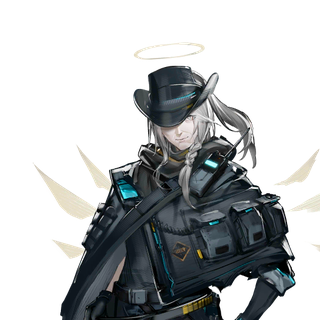
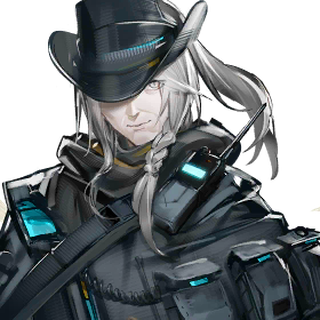
fix: EP 09 캐릭터 아바타 두상 클로즈업 재크롭, 전신 일러스트(illustUrl) 10종 추가 및 괄호 설명·영문 표기 정제

diff --git a/src/data/stories/ep09.ts b/src/data/stories/ep09.ts
@@ -17,17 +17,17 @@ export const episode09: StoryArchive = {
   },
   meta: {
     timeline: '테라력 1097년 10월',
-    location: '빅토리아 힐록 카운티(Hillock) 시가지 ~ 로도스 아일랜드 본함 격리 구역',
+    location: '빅토리아 힐록 카운티 시가지 ~ 로도스 아일랜드 본함 격리 구역',
     factions: [
       '로도스 아일랜드',
-      '빅토리아 제국 (제9방위군 / 템페스트 특공대)',
-      '더블린 (Dublinn)',
+      '빅토리아 제국',
+      '더블린',
       '네오 리유니온'
     ],
     mainCharacters: [
       '혼',
       '백파이프',
-      '제니 (사일라흐)',
+      '사일라흐',
       '아웃캐스트',
       '만드라고라',
       '아르모니',
@@ -43,7 +43,7 @@ export const episode09: StoryArchive = {
   content: {
     prtsGreeting: '[PRTS ARCHIVE] 빅토리아 힐록 카운티 무장 봉기, 더블린 부상 및 아웃캐스트 전술 로그.',
     logline: '타라족의 피로 물든 힐록의 불길, 템페스트 특공대의 고립과 아웃캐스트의 숭고한 산화, 그리고 로도스 본함에서 벌어진 탈룰라 탈환 작전.',
-    background: '체르노보그 사태가 종결된 직후, 테라의 시선은 서방의 대제국 빅토리아로 향한다. 빅토리아 남부의 곡창 지대인 중형 이동도시 힐록 카운티(Hillock County)는 겉으로는 평온해 보였으나, 오랜 세월 제국의 탄압을 받아온 피지배 민족 "타라족(Tara)"과 지배층 빅토리아인 사이의 갈등이 한계점에 도달해 있었다. 현지 주둔군인 제9방위군(해밀턴 대령)은 타라족 주민들을 잠재적 반란군으로 규정해 혹독하게 억압했고, 이에 맞서 타라족의 독립을 외치는 무장 조직 "더블린(Dublinn)"이 은밀히 세력을 키우고 있었다. 빅토리아 정규군 템페스트 특공대 소속의 혼과 백파이프는 군부 내부의 밀수 조사를 위해 힐록에 잠입하지만 이미 도시는 거대한 함정에 빠져 있었다. 한편 로도스 아일랜드의 현지 연락원 제니(사일라흐)와 정예 오퍼레이터 아웃캐스트는 평화로운 일상을 지키기 위해 분투하지만, 도시 전체를 집어삼키는 전쟁의 소용돌이 속에서 아웃캐스트는 주민들을 위해 율법을 깨는 최후의 선택을 마주하게 된다.',
+    background: '체르노보그 사태가 종결된 직후, 테라의 시선은 서방의 대제국 빅토리아로 향한다. 빅토리아 남부의 곡창 지대인 중형 이동도시 힐록 카운티는 겉으로는 평온해 보였으나, 오랜 세월 제국의 탄압을 받아온 피지배 민족 타라족과 지배층 빅토리아인 사이의 갈등이 한계점에 도달해 있었다. 현지 주둔군인 제9방위군은 타라족 주민들을 잠재적 반란군으로 규정해 혹독하게 억압했고, 이에 맞서 타라족의 독립을 외치는 무장 조직 더블린이 은밀히 세력을 키우고 있었다. 빅토리아 정규군 템페스트 특공대 소속의 혼과 백파이프는 군부 내부의 밀수 조사를 위해 힐록에 잠입하지만 이미 도시는 거대한 함정에 빠져 있었다. 한편 로도스 아일랜드의 현지 연락원 제니와 정예 오퍼레이터 아웃캐스트는 평화로운 일상을 지키기 위해 분투하지만, 도시 전체를 집어삼키는 전쟁의 소용돌이 속에서 아웃캐스트는 주민들을 위해 율법을 깨는 최후의 선택을 마주하게 된다.',
     acts: [
       {
         step: 1,
@@ -53,13 +53,13 @@ export const episode09: StoryArchive = {
         location: '빅토리아 힐록 카운티 물류 창고 및 시가지 거리',
         cgUrl: '/images/cgs/21_i1.png',
         cgCaption: '로도스 아일랜드 힐록 사무소에서 제니에게 카드 마술을 보여주며 온기를 나누는 아웃캐스트',
-        narrativeText: `잿빛 구름이 낮게 깔린 빅토리아의 중형 이동도시 힐록 카운티. 겉보기에는 농업과 경공업으로 번영하는 평온한 고장이었으나, 도시의 골목마다 타라족 주민들의 응어리진 한숨과 빅토리아 군경의 차가운 총구가 교차하고 있었다. 제국 정규군 최정예인 템페스트 특공대(제2기동소대) 대장 혼(리타 스카만드로스)과 그녀의 오랜 전우이자 부하인 와이번 종족의 백파이프(피오나 영)는 카운티 외곽의 한 대형 물류 창고로 은밀히 진입한다. 빅토리아 고위층과 연계된 오리지늄 군수물자 밀수 혐의를 포착했다는 첩보 때문이었다. 그러나 엄중한 경계를 뚫고 진열대 사이로 돌입한 혼과 백파이프가 마주한 것은 무기가 아니라 산더미처럼 쌓인 마카 야채와 굶주림에 떠는 초라한 청년뿐이었다. 누군가 의도적으로 특공대의 시야를 돌리고 헛걸음을 치게 만들었다는 불길한 예감이 스친다.
+        narrativeText: `잿빛 구름이 낮게 깔린 빅토리아의 중형 이동도시 힐록 카운티. 겉보기에는 농업과 경공업으로 번영하는 평온한 고장이었으나, 도시의 골목마다 타라족 주민들의 응어리진 한숨과 빅토리아 군경의 차가운 총구가 교차하고 있었다. 제국 정규군 최정예인 템페스트 특공대 대장 혼과 그녀의 오랜 전우이자 부하인 와이번 종족의 백파이프는 카운티 외곽의 한 대형 물류 창고로 은밀히 진입한다. 빅토리아 고위층과 연계된 오리지늄 군수물자 밀수 혐의를 포착했다는 첩보 때문이었다. 그러나 엄중한 경계를 뚫고 진열대 사이로 돌입한 혼과 백파이프가 마주한 것은 무기가 아니라 산더미처럼 쌓인 마카 야채와 굶주림에 떠는 초라한 청년뿐이었다. 누군가 의도적으로 특공대의 시야를 돌리고 헛걸음을 치게 만들었다는 불길한 예감이 스친다.
 
-같은 시각, 힐록 카운티 중심부의 로도스 아일랜드 주재 사무소에서는 소박하지만 따스한 아침 풍경이 펼쳐지고 있었다. 현지 의전 연락원이자 빅토리아 방위군 의전관인 젊은 여성 제니(훗날의 사일라흐, 제인 윌로우)는 갓 구운 바노피파이와 쇼트브레드를 챙겨 로도스 사무소를 찾는다. 그곳에는 로도스 최고참 정예 오퍼레이터 중 한 명인 산크타 출신의 아웃캐스트가 머물고 있었다. 아웃캐스트는 힐록 카운티의 겉으로 드러난 평온함 이면에 위험천만한 암류가 도사리고 있음을 일찌감치 간파하고 있었다. 그녀는 특유의 여유로운 미소와 함께 동전과 카드를 이용한 마술을 선보이며 광석병으로 고통받는 아이들과 제니의 굳은 얼굴을 풀어준다. "눈에 보이지 않는 패를 읽는 법을 배워야 해, 제니. 대지는 언제나 우리가 보지 못하는 곳에서 소용돌이를 일으키니까." 아웃캐스트의 온화한 격려는 전란 직전 힐록에서 나눈 가장 아름답고 평화로운 한 조각의 기억이었다.
+같은 시각, 힐록 카운티 중심부의 로도스 아일랜드 주재 사무소에서는 소박하지만 따스한 아침 풍경이 펼쳐지고 있었다. 현지 의전 연락원이자 훗날 사일라흐라는 이름으로 로도스에 서게 될 젊은 여성 제니는 갓 구운 바노피파이와 쇼트브레드를 챙겨 로도스 사무소를 찾는다. 그곳에는 로도스 최고참 정예 오퍼레이터 중 한 명인 산크타 출신의 아웃캐스트가 머물고 있었다. 아웃캐스트는 힐록 카운티의 겉으로 드러난 평온함 이면에 위험천만한 암류가 도사리고 있음을 일찌감치 간파하고 있었다. 그녀는 특유의 여유로운 미소와 함께 동전과 카드를 이용한 마술을 선보이며 광석병으로 고통받는 아이들과 제니의 굳은 얼굴을 풀어준다. 대지는 언제나 우리가 보지 못하는 곳에서 소용돌이를 일으킨다는 아웃캐스트의 온화한 격려는, 전란 직전 힐록에서 나눈 가장 아름답고 평화로운 한 조각의 기억이었다.
 
-그러나 평화는 오래가지 못했다. 제9방위군의 켈리 대위와 사령관 해밀턴 대령은 타라족 주민들을 겨냥한 무차별 가택 수색과 체포를 강행했고, 억압받던 주민들의 분노는 마침내 폭발 임계치를 넘어선다. 도심 곳곳의 순찰대가 기습을 당해 쓰러지고, 통신탑과 경비 초소가 의문의 공격으로 파괴되기 시작한다. 타라족의 전설 속 군대인 "귀혼대"의 망령이 돌아왔다는 소문이 거리를 휩쓸고, 시가지의 네 모퉁이에서 짙은 연기와 함께 정체불명의 화염이 솟구친다. 단순한 민간 폭동이 아니라 군사적 훈련을 철저히 받은 조직적인 반란군, 즉 "더블린(Dublinn)"의 선제 기습 공격이 개시된 것이었다.
+그러나 평화는 오래가지 못했다. 제9방위군의 켈리 대위와 사령관 해밀턴 대령은 타라족 주민들을 겨냥한 무차별 가택 수색과 체포를 강행했고, 억압받던 주민들의 분노는 마침내 폭발 임계치를 넘어선다. 도심 곳곳의 순찰대가 기습을 당해 쓰러지고, 통신탑과 경비 초소가 의문의 공격으로 파괴되기 시작한다. 타라족의 전설 속 군대인 귀혼대의 망령이 돌아왔다는 소문이 거리를 휩쓸고, 시가지의 네 모퉁이에서 짙은 연기와 함께 정체불명의 화염이 솟구친다. 단순한 민간 폭동이 아니라 군사적 훈련을 철저히 받은 조직적인 반란군, 즉 더블린의 선제 기습 공격이 개시된 것이었다.
 
-혼은 사태가 걷잡을 수 없이 파국으로 치닫고 있음을 직감하고 사령부와의 교신을 시도하지만, 이미 카운티의 장거리 통신망은 완전히 차단된 뒤였다. 제9방위군은 시민을 보호하기는커녕 도심의 방어벽을 걸어 잠근 채 도시 전체를 버리는 기동을 준비하고 있었다. 무고한 민간인들이 화염에 휩싸인 거리로 쏟아져 나오고, 백파이프는 군인의 본분을 다하기 위해 불타는 잔해 속으로 뛰어든다. 힐록의 하늘 위로 타라족의 자유를 부르짖는 음산한 피리 소리가 울려 퍼지며, 메인 테마 2부 《석양의 런디니움》의 서막을 알리는 비극의 포문이 열린다.`,
+혼은 사태가 걷잡을 수 없이 파국으로 치닫고 있음을 직감하고 사령부와의 교신을 시도하지만, 이미 카운티의 장거리 통신망은 완전히 차단된 뒤였다. 제9방위군은 시민을 보호하기는커녕 도심의 방어벽을 걸어 잠근 채 도시 전체를 버리는 기동을 준비하고 있었다. 무고한 민간인들이 화염에 휩싸인 거리로 쏟아져 나오고, 백파이프는 군인의 본분을 다하기 위해 불타는 잔해 속으로 뛰어든다. 힐록의 하늘 위로 타라족의 자유를 부르짖는 음산한 피리 소리가 울려 퍼지며, 메인 테마 2부 석양의 런디니움의 서막을 알리는 비극의 포문이 열린다.`,
         summary: '혼과 백파이프가 밀수 첩보를 조사하는 사이, 억압받던 타라족 저항군 더블린이 힐록 카운티 전역에서 동시다발적 기습을 개시하며 도시가 화염에 휩싸인다.',
         quotes: [
           {
@@ -75,7 +75,7 @@ export const episode09: StoryArchive = {
             context: '채소 창고 수색 작전 직후 힐록의 이상 징후를 간파하며'
           },
           {
-            speaker: '제니 (사일라흐)',
+            speaker: '사일라흐',
             speakerId: 'saileach',
             text: '올리버 아저씨, 따뜻한 차와 쇼트브레드 좀 드세요. 제 동료들은 광석병 환자와 타라족 주민들을 오해하고 있지만, 정성을 다해 대하면 언젠가는 마음의 벽도 무너질 거예요.',
             context: '로도스 사무소에서 감염자 아이들과 오퍼레이터들에게 음식을 건네며'
@@ -101,9 +101,9 @@ export const episode09: StoryArchive = {
 
 거리의 잔해 속에서 작전을 수행하던 혼과 백파이프의 발치로 낡은 장난감 공 하나가 굴러온다. 피투성이가 된 거리 한복판에 덩그러니 놓인 공을 주워 들며, 두 사람은 이 참극이 단순한 우발적 폭동이 아니라 빅토리아의 지배 체제 자체를 무너뜨리려는 조직적인 정복 작전임을 깨닫는다. 평화롭게 뛰놀던 아이들의 온기는 사라지고, 공기 중에는 오리지늄 분진과 살카즈 주술의 매캐한 유황 냄새가 짙게 깔려 있었다. 백파이프는 경악을 금치 못하며 주먹을 쥐었고, 혼은 부하들을 수습하며 고립된 시민들을 지키기 위해 검을 빼든다.
 
-더블린의 심장부에서는 또 다른 거대한 그림자가 움직이고 있었다. 우아하고 냉혹한 책사 아르모니의 보좌를 받으며 모습을 드러낸 인물은, 더블린의 최고 지도자이자 '리더'라 불리는 드라코 종족의 여성 에블라나였다. 그녀의 손끝에서는 죽은 자의 육신과 영혼을 태워 망령의 전사로 되살려내는 생명과 죽음의 불꽃이 타오르고 있었다. 에블라나는 빅토리아가 빼앗아 간 고대 타라 왕국의 정당한 권리를 되찾겠다고 선언하며, 힐록의 참상을 런디니움 귀족들의 오만함이 불러온 필연적 업보라고 단죄한다. 힐록의 하늘은 그녀가 소환한 푸른빛과 붉은빛의 원초적 화염으로 물들어갔다.
+더블린의 심장부에서는 또 다른 거대한 그림자가 움직이고 있었다. 우아하고 냉혹한 책사 아르모니의 보좌를 받으며 모습을 드러낸 인물은, 더블린의 최고 지도자이자 리더라 불리는 드라코 종족의 여성 에블라나였다. 그녀의 손끝에서는 죽은 자의 육신과 영혼을 태워 망령의 전사로 되살려내는 생명과 죽음의 불꽃이 타오르고 있었다. 에블라나는 빅토리아가 빼앗아 간 고대 타라 왕국의 정당한 권리를 되찾겠다고 선언하며, 힐록의 참상을 런디니움 귀족들의 오만함이 불러온 필연적 업보라고 단죄한다. 힐록의 하늘은 그녀가 소환한 푸른빛과 붉은빛의 원초적 화염으로 물들어갔다.
 
-한편 제9방위군 사령부에 고립된 해밀턴 대령은 공포와 편집증에 사로잡혀 극단적인 결정을 내린다. 그는 카운티에 남은 모든 주민을 반란군 동조자로 간주하고, 군사 조약으로 엄격히 금지된 오리지늄 대량살상무기인 기화성 소이탄(더티 밤)을 도시 전역에 살포하라는 명령을 하달한다. "폭도들에게 자비는 없다. 이 도시 전체가 잿더미가 되더라도 빅토리아의 불명예를 남길 수는 없다!" 이성이 마비된 해밀턴의 광기 어린 폭주는, 더블린의 침공보다 더욱 끔찍한 파멸의 재앙을 힐록의 무고한 시민들에게 예고하고 있었다.`,
+한편 제9방위군 사령부에 고립된 해밀턴 대령은 공포와 편집증에 사로잡혀 극단적인 결정을 내린다. 그는 카운티에 남은 모든 주민을 반란군 동조자로 간주하고, 군사 조약으로 엄격히 금지된 오리지늄 대량살상무기인 기화성 소이탄을 도시 전역에 살포하라는 명령을 하달한다. 반역자들에게 자비는 없으며, 이 도시 전체가 잿더미가 되더라도 빅토리아의 불명예를 남길 수는 없다는 해밀턴의 광기 어린 폭주는, 더블린의 침공보다 더욱 끔찍한 파멸의 재앙을 힐록의 무고한 시민들에게 예고하고 있었다.`,
         summary: '더블린의 만드라고라와 에블라나가 힐록을 유린하는 가운데, 공황에 빠진 해밀턴 대령은 금지된 오리지늄 화학탄 살포를 명령하며 도시를 생지옥으로 몰아넣는다.',
         quotes: [
           {
@@ -143,9 +143,9 @@ export const episode09: StoryArchive = {
         cgCaption: '라테라노의 금기를 깨고 여섯 번째 탄환을 발사하며 눈부신 빛 속에서 장렬히 산화하는 아웃캐스트',
         narrativeText: `해밀턴 대령의 살포 명령이 떨어지자, 거대한 폭음과 함께 힐록 카운티의 하늘에서 짙은 보랏빛 오리지늄 분진과 독가스가 비처럼 쏟아져 내렸다. 건물 안으로 피신했던 비감염자 시민들과 부상당한 타라족 주민들, 심지어 영문을 모른 채 거리를 지키던 빅토리아의 일반 병사들까지 맹독성 결정체에 노출되어 피를 토하며 쓰러져갔다. 지배자와 피지배자의 구분이 사라진 무차별적인 학살의 아비규환 속에서, 힐록 카운티는 생지옥으로 변모했다.
 
-이 참혹한 파멸의 현장에서 제니(사일라흐)는 도망치는 대신 무너진 광장의 한가운데로 걸어 나왔다. 그녀는 바닥에 버려진 거대한 빅토리아의 깃발을 집어 들고 양손으로 힘차게 치켜세웠다. "도망치지 마세요! 이 깃발 아래로 모이세요! 부상자도, 아이들도 모두 제 뒤로 오세요!" 제국의 군기가 압제와 학살의 상징으로 전락한 그 순간, 제니는 깃발을 무고한 생명을 구원하는 유일한 희망의 등대로 탈바꿈시켰다. 그녀의 외침에 용기를 얻은 시민들과 낙오된 병사들이 깃발 뒤로 모여들며 처절한 탈출 행렬을 이룬다.
+이 참혹한 파멸의 현장에서 제니는 도망치는 대신 무너진 광장의 한가운데로 걸어 나왔다. 그녀는 바닥에 버려진 거대한 빅토리아의 깃발을 집어 들고 양손으로 힘차게 치켜세웠다. "도망치지 마세요! 이 깃발 아래로 모이세요! 부상자도, 아이들도 모두 제 뒤로 오세요!" 제국의 군기가 압제와 학살의 상징으로 전락한 그 순간, 제니는 깃발을 무고한 생명을 구원하는 유일한 희망의 등대로 탈바꿈시켰다. 그녀의 외침에 용기를 얻은 시민들과 낙오된 병사들이 깃발 뒤로 모여들며 처절한 탈출 행렬을 이룬다.
 
-한편 템페스트 특공대의 혼과 백파이프는 군 통수부의 살인 명령을 명백히 거부하고 피난민 대열의 후방을 엄호했다. 그러나 더블린의 대규모 주력군과 해밀턴의 독가스 부대가 템페스트 소대를 포위망 안에 가두었다. 맹독 가스 속에서 소대원들이 하나둘 숨을 거두자, 혼은 최후의 결단을 내린다. 그녀는 가문의 상징이자 특공대의 긍지인 거대한 방패 "캐슬브레이커"를 폐허의 땅 깊숙이 꽂아 넣었다. 그리고 백파이프의 등을 거칠게 떠밀었다. "백파이프, 내 마지막 명령이다. 너는 살아남아 런디니움으로 가라! 그리고 세상에 알려라…… 힐록 카운티에서 빅토리아 군의 이름으로 어떤 죄악이 저질러졌는지를!" 혼은 홀로 캐슬브레이커 뒤에 서서 다가오는 적들을 가로막았고, 백파이프는 눈물을 삼키며 황무지를 향해 내달렸다.
+한편 템페스트 특공대의 혼과 백파이프는 군 통수부의 살인 명령을 명백히 거부하고 피난민 대열의 후방을 엄호했다. 그러나 더블린의 대규모 주력군과 해밀턴의 독가스 부대가 템페스트 소대를 포위망 안에 가두었다. 맹독 가스 속에서 소대원들이 하나둘 숨을 거두자, 혼은 최후의 결단을 내린다. 그녀는 가문의 상징이자 특공대의 긍지인 거대한 방패 캐슬브레이커를 폐허의 땅 깊숙이 꽂아 넣었다. 그리고 백파이프의 등을 거칠게 떠밀었다. "백파이프, 내 마지막 명령이다. 너는 살아남아 런디니움으로 가라! 그리고 세상에 알려라…… 힐록 카운티에서 빅토리아 군의 이름으로 어떤 죄악이 저질러졌는지를!" 혼은 홀로 캐슬브레이커 뒤에 서서 다가오는 적들을 가로막았고, 백파이프는 눈물을 삼키며 황무지를 향해 내달렸다.
 
 피난민들을 이끌던 로도스 아일랜드의 퇴로 앞에는 더블린의 여섯 지휘관과 만드라고라의 정예 부대가 가로막아 섰다. 민간인들의 탈출이 불가능해진 절체절명의 위기. 그때 홀로 걸어 나온 이는 산크타의 방랑자 아웃캐스트였다. 그녀는 품에서 여섯 발의 탄환이 들어가는 총포를 꺼내 들었다. 라테라노의 신성한 율법에 따르면, 산크타는 타인에게 여섯 발의 총탄을 연속으로 발사해서는 안 되며, 여섯 번째 탄환을 쏘는 순간 그 대가로 자신의 생명과 신앙을 신에게 바쳐야만 했다.
 
@@ -159,7 +159,7 @@ export const episode09: StoryArchive = {
             context: '더블린 지휘관들을 가로막고 율법의 금기를 깨며 최후의 탄환을 장전할 때'
           },
           {
-            speaker: '제니 (사일라흐)',
+            speaker: '사일라흐',
             speakerId: 'saileach',
             text: '도망치지 않겠어요! 이 깃발 아래로 모이세요, 다친 분들도 노약자 분들도 모두 제 뒤로 오세요! 빅토리아의 이름이 퇴색했을지라도, 무고한 이들을 지키겠다는 이 맹세는 결코 꺾이지 않아요!',
             context: '독가스가 쏟아지는 시가지에서 빅토리아 국기를 치켜들고 피난민을 인도할 때'
@@ -183,19 +183,19 @@ export const episode09: StoryArchive = {
         step: 4,
         phase: '파트 4',
         phaseEn: 'Part 4',
-        title: '[09-17 ~ 09-19 / ST04] 폭풍의 여파, 탈룰라 탈환 작전',
+        title: '[09-17 ~ 09-19] 폭풍의 여파, 탈룰라 탈환 작전',
         location: '빅토리아 외곽 황무지 및 로도스 아일랜드 본함 최심부 격리 구역',
         cgUrl: '/images/cgs/21_i13.png',
         cgCaption: '로도스 아일랜드 본함 독방에서 나인을 마주하며 다시 대지의 불꽃 속으로 발걸음을 옮기는 탈룰라',
         narrativeText: `불타오르던 힐록 카운티가 폐허의 연기 속에 잠기고, 생존자들의 여정은 새로운 국면으로 접어들었다. 만신창이가 된 채 사선을 넘어 황무지로 탈출한 백파이프는 혼의 마지막 명령을 가슴에 품고 빅토리아의 수도 런디니움을 향해 발걸음을 재촉했다. 황량한 도로 위에서 백파이프는 과거 용문 근위국을 떠나 홀로 방랑의 길을 걷고 있던 첸과 극적으로 조우한다. 백파이프는 첸의 품에 안겨 힐록 카운티의 참극과 템페스트 특공대의 전멸을 전하며 오열했고, 두 사람은 빅토리아의 심장부 런디니움이 이미 살카즈 군사위원회의 음모 아래 완전히 장악당했다는 전율할 만한 정세를 공유한다. 이제 전선은 제국의 수도 런디니움으로 옮겨가고 있었다.
 
-살아남은 제니는 아웃캐스트의 유지를 받들어 로도스 아일랜드에 정식 오퍼레이터 "사일라흐"로 합류한다. 그녀는 아미야와 켈시를 마주하며, 국가나 제국의 영광이 아니라 고통받는 평범한 사람들을 지키기 위해 자신의 깃발을 들겠다고 엄숙히 맹세한다. 힐록의 상흔은 깊었으나, 아웃캐스트가 남긴 따스한 온기와 사일라흐의 꺾이지 않는 신념은 로도스 아일랜드의 대의 속에서 영원히 살아 숨 쉬게 되었다.
+살아남은 제니는 아웃캐스트의 유지를 받들어 로도스 아일랜드에 정식 오퍼레이터 사일라흐로 합류한다. 그녀는 아미야와 켈시를 마주하며, 국가나 제국의 영광이 아니라 고통받는 평범한 사람들을 지키기 위해 자신의 깃발을 들겠다고 엄숙히 맹세한다. 힐록의 상흔은 깊었으나, 아웃캐스트가 남긴 따스한 온기와 사일라흐의 꺾이지 않는 신념은 로도스 아일랜드의 대의 속에서 영원히 살아 숨 쉬게 되었다.
 
-그러나 대지의 혼란은 여기서 멈추지 않았다. 로도스 아일랜드 본함에서는 누구도 예상치 못했던 기습 작전이 은밀히 펼쳐지고 있었다. 과거 체르노보그 결전 이후 로도스에 구금되어 있던 전 리유니온의 영도자 탈룰라. 그녀가 갇힌 최심부 격리 구역의 보안 장벽이 폭파되며, 리유니온의 옛 간부 나인(Nine)이 이끄는 무장 특공대가 침투한다. 나인은 과거의 잔당들을 규합해 결성한 "네오 리유니온"의 전사들과 함께 본함의 방어망을 무력화시키고 탈룰라의 독방 문을 열어젖혔다.
+그러나 대지의 혼란은 여기서 멈추지 않았다. 로도스 아일랜드 본함에서는 누구도 예상치 못했던 기습 작전이 은밀히 펼쳐지고 있었다. 과거 체르노보그 결전 이후 로도스에 구금되어 있던 전 리유니온의 영도자 탈룰라. 그녀가 갇힌 최심부 격리 구역의 보안 장벽이 폭파되며, 리유니온의 옛 간부 나인이 이끄는 무장 특공대가 침투한다. 나인은 과거의 잔당들을 규합해 결성한 네오 리유니온의 전사들과 함께 본함의 방어망을 무력화시키고 탈룰라의 독방 문을 열어젖혔다.
 
-"탈룰라, 오랜만이군." 독방의 어둠 속에서 고요히 앉아 있던 탈룰라를 향해 나인은 차갑게 말을 건넨다. 감옥 안에서 평생 회개한다고 해서 북원 설원에서 죽어간 수만 감염자들의 피가 지워지지는 않는다는 일갈이었다. 나인은 탈룰라에게 진정한 속죄를 원한다면 다시 대지로 나와 감염자들의 현실을 직시하고 그들이 흘리는 눈물의 무게를 짊어지라고 요구한다. 코셰이의 주박에서 벗어난 탈룰라는 마침내 결단을 내린다. 그녀는 구금복을 벗어던지고 자신의 과오와 업보를 정면으로 마주하기 위해 나인의 손을 잡는다.
+오랜만이라는 나인의 차가운 목소리에 독방의 어둠 속에 고요히 앉아 있던 탈룰라가 고개를 든다. 감옥 안에서 평생 회개한다고 해서 북원 설원에서 죽어간 수만 감염자들의 피가 지워지지는 않는다는 일갈이었다. 나인은 탈룰라에게 진정한 속죄를 원한다면 다시 대지로 나와 감염자들의 현실을 직시하고 그들이 흘리는 눈물의 무게를 짊어지라고 요구한다. 코셰이의 주박에서 벗어난 탈룰라는 마침내 결단을 내린다. 그녀는 구금복을 벗어던지고 자신의 과오와 업보를 정면으로 마주하기 위해 나인의 손을 잡는다.
 
-경보를 듣고 달려온 아미야와 켈시가 본함 통로를 막아서지만, 탈룰라는 칼을 뽑는 대신 담담한 눈빛으로 아미야를 응시한다. "아미야, 나는 도망치는 것이 아니다. 코셰이가 이 대지에 심어놓은 독을 내 손으로 끝장내기 위해 가는 것이다." 본함을 빠져나간 탈룰라와 네오 리유니온은 석양 속으로 사라졌고, 힐록의 비극으로 촉발된 타라족의 반란과 탈룰라의 재림은 다가올 런디니움 대전쟁의 거대한 폭풍을 예고하며 Episode 09의 막을 내린다.`,
+경보를 듣고 달려온 아미야와 켈시가 본함 통로를 막아서지만, 탈룰라는 칼을 뽑는 대신 담담한 눈빛으로 아미야를 응시한다. 자신이 도망치는 것이 아니며, 코셰이가 이 대지에 심어놓은 독을 자신의 손으로 끝장내기 위해 나아간다는 선언이었다. 본함을 빠져나간 탈룰라와 네오 리유니온은 석양 속으로 사라졌고, 힐록의 비극으로 촉발된 타라족의 반란과 탈룰라의 재림은 다가올 런디니움 대전쟁의 거대한 폭풍을 예고하며 막을 내린다.`,
         summary: '백파이프가 첸과 합류해 런디니움의 위기를 포착하는 한편, 나인이 이끄는 네오 리유니온이 로도스 본함을 기습해 탈룰라를 구출하며 거대한 대전쟁의 서막이 오른다.',
         quotes: [
           {
@@ -234,13 +234,13 @@ export const episode09: StoryArchive = {
     ],
     analysis: {
       theme: '제국의 식민 억압과 피지배 민족의 분노가 낳은 비극적 폭발, 그리고 국가의 깃발보다 소중한 인간성과 숭고한 자기희생.',
-      tacticalEvaluation: '빅토리아 제9방위군의 무차별 오리지늄 대량살상무기(더티 밤) 살포로 인해 힐록 카운티는 도시 방어 기능을 상실하고 자멸에 이름. 타라족 무장 조직 더블린은 고유의 대지 주술과 드라코의 영혼 화염을 이용해 통신 및 핵심 거점을 마비시키며 전술적 목표를 달성함. 로도스 아일랜드 정예 오퍼레이터 아웃캐스트는 산크타의 금기 율법을 깨고 여섯 번째 탄환을 발사하여 자신을 희생함으로써 민간인 피난민과 생존자들의 안전한 철수로를 완벽히 확보함. 또한 네오 리유니온의 신속한 침투 기동으로 본함에 구금 중이던 탈룰라가 성공적으로 탈환됨.',
-      loreImpact: '체르노보그-용문 사태(Act I) 종결 이후 메인 테마 2부의 핵심 무대인 빅토리아 제국의 본격적인 분열과 타라족 분쟁이 전면에 부상함. 아웃캐스트의 산화는 라테라노 산크타의 수호총포와 신성 율법의 실체를 처음으로 드러낸 중대한 사건이며, 사일라흐(제니)의 합류는 로도스가 제국의 국가적 질서가 아닌 순수한 인도주의적 가치를 수호함을 상징함. 아울러 탈룰라의 구출과 네오 리유니온의 결성은 리유니온 세력이 단순한 파멸 집단에서 새로운 이념적 세력으로 재편되었음을 시사하며, 모든 갈등의 축이 수도 런디니움으로 집중되는 결정적 계기가 됨.',
+      tacticalEvaluation: '빅토리아 제9방위군의 무차별 오리지늄 대량살상무기 살포로 인해 힐록 카운티는 도시 방어 기능을 상실하고 자멸에 이름. 타라족 무장 조직 더블린은 고유의 대지 주술과 드라코의 영혼 화염을 이용해 통신 및 핵심 거점을 마비시키며 전술적 목표를 달성함. 로도스 아일랜드 정예 오퍼레이터 아웃캐스트는 산크타의 금기 율법을 깨고 여섯 번째 탄환을 발사하여 자신을 희생함으로써 민간인 피난민과 생존자들의 안전한 철수로를 완벽히 확보함. 또한 네오 리유니온의 신속한 침투 기동으로 본함에 구금 중이던 탈룰라가 성공적으로 탈환됨.',
+      loreImpact: '체르노보그와 용문 사태 종결 이후 메인 테마 2부의 핵심 무대인 빅토리아 제국의 본격적인 분열과 타라족 분쟁이 전면에 부상함. 아웃캐스트의 산화는 라테라노 산크타의 수호총포와 신성 율법의 실체를 처음으로 드러낸 중대한 사건이며, 사일라흐의 합류는 로도스가 제국의 국가적 질서가 아닌 순수한 인도주의적 가치를 수호함을 상징함. 아울러 탈룰라의 구출과 네오 리유니온의 결성은 리유니온 세력이 단순한 파멸 집단에서 새로운 이념적 세력으로 재편되었음을 시사하며, 모든 갈등의 축이 수도 런디니움으로 집중되는 결정적 계기가 됨.',
       unresolvedHooks: [
-        '힐록 카운티 최후 방어선에 홀로 남겨진 템페스트 특공대 대장 혼(리타 스카만드로스)의 생사 및 살카즈 군사위원회 포로 수용소 억류 여부.',
+        '힐록 카운티 최후 방어선에 홀로 남겨진 템페스트 특공대 대장 혼의 생사 및 살카즈 군사위원회 포로 수용소 억류 여부.',
         '탈룰라를 확보한 나인과 네오 리유니온이 향후 런디니움 전쟁에서 어떤 독자적 행보를 취할 것인가.',
-        '빅토리아 수도 런디니움을 점령한 살카즈 군사위원회(테레시스)의 음모와 거대 도시방어포의 비밀.',
-        '더블린의 군주 에블라나와 로도스 아일랜드에 보호 중인 쌍둥이 여동생 리드(라흐라바)의 향후 대면과 운명적 충돌.'
+        '빅토리아 수도 런디니움을 점령한 살카즈 군사위원회의 음모와 거대 도시방어포의 비밀.',
+        '더블린의 군주 에블라나와 로도스 아일랜드에 보호 중인 쌍둥이 여동생 리드의 향후 대면과 운명적 충돌.'
       ]
     }
   },
@@ -249,10 +249,11 @@ export const episode09: StoryArchive = {
       id: 'horn',
       nameKo: '혼',
       nameEn: 'Horn',
-      faction: '빅토리아 제국 (템페스트 특공대)',
+      faction: '빅토리아 제국',
       role: '빅토리아 템페스트 특공대 대장',
       avatarUrl: '/images/characters/horn.png',
-      description: '본명 리타 스카만드로스. 빅토리아 정규군 최정예인 템페스트 특공대 제2기동소대를 이끄는 루포 종족의 지휘관. 고결한 군인 정신과 뛰어난 전술 안목을 지녔으며, 거대한 방패 캐슬브레이커를 다룬다.',
+      illustUrl: '/images/characters/illust/horn.png',
+      description: '본명 리타 스카만드로스. 빅토리아 정규군 최정예인 템페스트 특공대 소속 루포 종족 지휘관. 고결한 군인 정신과 뛰어난 전술 안목을 지녔으며, 거대한 방패 캐슬브레이커를 다룬다.',
       statusInChapter: '백파이프 탈출 엄호 후 최후 결사 사수',
       spoilerLevel: 2
     },
@@ -260,10 +261,11 @@ export const episode09: StoryArchive = {
       id: 'bagpipe',
       nameKo: '백파이프',
       nameEn: 'Bagpipe',
-      faction: '빅토리아 제국 (템페스트 특공대)',
+      faction: '빅토리아 제국',
       role: '템페스트 특공대 기동 타격 전사',
       avatarUrl: '/images/characters/bagpipe.png',
-      description: '본명 피오나 영. 빅토리아 왕립 근위 군사학교를 우수한 성적으로 졸업한 와이번 종족의 정예 전사. 혼 대장을 깊이 존경하며, 파쇄창을 휘두르는 압도적인 신체 능력과 순박한 심성을 지녔다.',
+      illustUrl: '/images/characters/illust/bagpipe.png',
+      description: '본명 피오나 영. 빅토리아 왕립 근위 군사학교 출신의 와이번 종족 정예 전사. 혼 대장을 깊이 존경하며, 파쇄창을 휘두르는 압도적인 신체 능력과 순박한 심성을 지녔다.',
       statusInChapter: '혼의 명령으로 탈출 후 런디니움으로 행군',
       spoilerLevel: 2
     },
@@ -271,10 +273,11 @@ export const episode09: StoryArchive = {
       id: 'saileach',
       nameKo: '사일라흐',
       nameEn: 'Saileach',
-      faction: '빅토리아 제국 / 로도스 아일랜드',
-      role: '힐록 방위군 의전관 ➔ 로도스 아일랜드',
+      faction: '로도스 아일랜드',
+      role: '로도스 아일랜드 의전 오퍼레이터',
       avatarUrl: '/images/characters/saileach.png',
-      description: '본명 제인 윌로우(제니). 빅토리아 남부 힐록 카운티의 방위군 의전관이자 로도스 아일랜드 현지 연락원. 온화하고 배려심 깊은 성품으로 주민들을 돌보았으며, 참극 속에서 깃발을 치켜들고 생명을 구원한다.',
+      illustUrl: '/images/characters/illust/saileach.png',
+      description: '본명 제인 윌로우. 힐록 카운티의 방위군 의전관이자 로도스 아일랜드 연락원. 온화하고 배려심 깊은 성품으로 주민들을 돌보았으며, 참극 속에서 깃발을 치켜들고 생명을 구원한다.',
       statusInChapter: '힐록 피난민 인솔 후 로도스 정식 합류',
       spoilerLevel: 2
     },
@@ -285,6 +288,7 @@ export const episode09: StoryArchive = {
       faction: '로도스 아일랜드',
       role: '로도스 아일랜드 정예 오퍼레이터',
       avatarUrl: '/images/characters/outcast.png',
+      illustUrl: '/images/characters/illust/outcast.png',
       description: '라테라노 출신의 베테랑 산크타 오퍼레이터. 켈시와 오랜 세월 동행하며 수많은 임무를 완수한 지혜롭고 자애로운 방랑자. 후배들을 따스하게 이끌었으며, 힐록에서 율법을 깨고 최후의 탄환을 발사한다.',
       statusInChapter: '여섯 번째 탄환 발사 후 장렬히 산화',
       spoilerLevel: 2
@@ -293,9 +297,10 @@ export const episode09: StoryArchive = {
       id: 'mandragora',
       nameKo: '만드라고라',
       nameEn: 'Mandragora',
-      faction: '더블린 (Dublinn)',
+      faction: '더블린',
       role: '더블린 돌격대 지휘관',
       avatarUrl: '/images/characters/mandragora.png',
+      illustUrl: '/images/characters/illust/mandragora.png',
       description: '타라족 독립군 더블린의 돌격부대를 지휘하는 필라인 종족의 술사. 빅토리아인에 대한 깊은 증오를 품고 있으며, 대지와 암석을 조종해 거대한 건축물을 무너뜨리는 강력한 주술을 구사한다.',
       statusInChapter: '힐록 침공 주도 후 아웃캐스트에게 패주',
       spoilerLevel: 2
@@ -304,9 +309,10 @@ export const episode09: StoryArchive = {
       id: 'harmonie',
       nameKo: '아르모니',
       nameEn: 'Harmonie',
-      faction: '더블린 (Dublinn)',
+      faction: '더블린',
       role: '더블린 참모 및 정보원',
       avatarUrl: '/images/characters/harmonie.png',
+      illustUrl: '/images/characters/illust/harmonie.png',
       description: '더블린의 핵심 참모이자 책략가. 겉으로는 사교계의 우아한 귀부인처럼 행동하지만 내면은 지극히 냉철하고 계산적이다. 제국 고위층과 빅토리아 정보망을 교란하며 더블린의 작전을 보좌한다.',
       statusInChapter: '힐록 작전 후방 조율 및 더블린 지원',
       spoilerLevel: 2
@@ -315,9 +321,10 @@ export const episode09: StoryArchive = {
       id: 'eblana',
       nameKo: '에블라나',
       nameEn: 'Eblana',
-      faction: '더블린 (Dublinn)',
-      role: '더블린 최고 지도자 (리더)',
+      faction: '더블린',
+      role: '더블린 최고 지도자',
       avatarUrl: '/images/characters/eblana.png',
+      illustUrl: '/images/characters/illust/eblana.png',
       description: '고대 타라 왕가의 혈통을 이어받은 드라코 종족의 군주이자 더블린의 정점에 선 인물. 죽은 자의 영혼에 불을 지펴 망령을 부리는 생명과 죽음의 불꽃을 다루며, 타라족의 부활을 위해 봉기를 일으킨다.',
       statusInChapter: '타라족 부활 선언 및 런디니움 정세 주시',
       spoilerLevel: 2
@@ -326,9 +333,10 @@ export const episode09: StoryArchive = {
       id: 'hamilton',
       nameKo: '해밀턴 대령',
       nameEn: 'Hamilton',
-      faction: '빅토리아 제국 (제9방위군)',
+      faction: '빅토리아 제9방위군',
       role: '힐록 카운티 제9방위군 사령관',
       avatarUrl: '/images/characters/hamilton.png',
+      illustUrl: '/images/characters/illust/hamilton.png',
       description: '힐록 카운티 주둔 제9방위군의 최고 지휘관. 타라족 주민들을 향한 뿌리 깊은 불신과 군사적 공명심에 사로잡혀 있으며, 반란이 일어나자 금지된 오리지늄 화학탄 살포를 명령해 도시를 자멸로 몰고 간다.',
       statusInChapter: '오리지늄 화학탄 살포 명령 후 행방불명',
       spoilerLevel: 2
@@ -337,10 +345,11 @@ export const episode09: StoryArchive = {
       id: 'nine',
       nameKo: '나인',
       nameEn: 'Nine',
-      faction: '네오 리유니온 (Neo-Reunion)',
+      faction: '네오 리유니온',
       role: '네오 리유니온 지도자',
       avatarUrl: '/images/characters/nine.png',
-      description: '과거 용문 근위국 정보원이자 리유니온의 고위 간부였던 독사 수인(바실리스크). 리유니온 붕괴 후 생존자들을 규합해 네오 리유니온을 결성하였으며, 로도스 본함을 기습해 탈룰라를 구출한다.',
+      illustUrl: '/images/characters/illust/nine.png',
+      description: '과거 용문 근위국 정보원이자 리유니온의 고위 간부였던 독사 수인. 리유니온 붕괴 후 생존자들을 규합해 네오 리유니온을 결성하였으며, 로도스 본함을 기습해 탈룰라를 구출한다.',
       statusInChapter: '로도스 본함 기습 및 탈룰라 구출 성공',
       spoilerLevel: 2
     },
@@ -348,9 +357,10 @@ export const episode09: StoryArchive = {
       id: 'talulah',
       nameKo: '탈룰라',
       nameEn: 'Talulah',
-      faction: '리유니온 / 네오 리유니온',
+      faction: '네오 리유니온',
       role: '전 리유니온 영도자',
       avatarUrl: '/images/characters/talulah.png',
+      illustUrl: '/images/characters/illust/talulah.png',
       description: '체르노보그 결전 이후 로도스 아일랜드 본함 최심부에 구금되어 있던 드라코 여성. 코셰이의 주박에서 벗어난 뒤 자신의 죄악을 직시하고 있으며, 나인의 구출을 받아 다시 대지로 나선다.',
       statusInChapter: '나인의 설득에 응해 본함 이탈',
       spoilerLevel: 2
@@ -362,6 +372,7 @@ export const episode09: StoryArchive = {
       faction: '로도스 아일랜드',
       role: '로도스 아일랜드 최고 리더',
       avatarUrl: '/images/characters/amiya.png',
+      illustUrl: '/images/characters/illust/amiya.png',
       description: '로도스 아일랜드를 이끄는 젊은 카우투스 리더. 체르노보그에서 마왕의 권능을 각성한 뒤 대지의 슬픔을 짊어지고 있으며, 본함을 침공한 네오 리유니온과 탈룰라를 마주한다.',
       statusInChapter: '사일라흐 영입 및 네오 리유니온 저지',
       spoilerLevel: 2
@@ -373,6 +384,7 @@ export const episode09: StoryArchive = {
       faction: '로도스 아일랜드',
       role: '의료 총괄 및 최고 이사',
       avatarUrl: '/images/characters/kaltsit.png',
+      illustUrl: '/images/characters/illust/kaltsit.png',
       description: '로도스 아일랜드의 의료 부문 총괄이자 수백 년의 역사를 지켜본 최고 현자. 오랜 동료였던 아웃캐스트의 산화에 비통해하면서도, 탈룰라의 이탈과 빅토리아 대전쟁의 여파를 냉철하게 대비한다.',
       statusInChapter: '아웃캐스트 부고 수습 및 런디니움 전선 준비',
       spoilerLevel: 2
@@ -381,9 +393,10 @@ export const episode09: StoryArchive = {
       id: 'chen',
       nameKo: '첸',
       nameEn: 'Ch\'en',
-      faction: '무소속 (전 용문 근위국)',
+      faction: '무소속',
       role: '방랑하는 검사',
       avatarUrl: '/images/characters/chen.png',
+      illustUrl: '/images/characters/illust/chen.png',
       description: '용문 근위국 특별감찰팀장을 사직하고 대지의 진실을 찾기 위해 홀로 방랑 중인 용족 검사. 빅토리아 외곽 황무지에서 탈출한 백파이프와 재회하여 런디니움의 위기를 포착한다.',
       statusInChapter: '황무지에서 백파이프와 재회',
       spoilerLevel: 2
@@ -412,7 +425,7 @@ export const episode09: StoryArchive = {
       term: '템페스트 특공대',
       type: 'faction',
       typeLabel: '군사 부대',
-      description: '빅토리아 제국 정규군 최정예 특수기동부대. 리타 스카만드로스(혼) 대장이 이끄는 제2기동소대가 군부 내 오리지늄 밀수 조사를 위해 힐록에 파견되었다가 참극에 휘말린다.'
+      description: '빅토리아 제국 정규군 최정예 특수기동부대. 리타 스카만드로스 대장이 이끄는 소대가 군부 내 오리지늄 밀수 조사를 위해 힐록에 파견되었다가 참극에 휘말린다.'
     },
     {
       term: '여섯 번째 탄환',
@@ -430,13 +443,13 @@ export const episode09: StoryArchive = {
       term: '네오 리유니온',
       type: 'faction',
       typeLabel: '세력/조직',
-      description: '체르노보그 함락 이후 생존한 옛 리유니온 간부 나인(Nine)이 결성한 새로운 감염자 무장 단체. 로도스 아일랜드 본함을 기습해 탈룰라를 구출하며 다시 역사의 전면에 등장한다.'
+      description: '체르노보그 함락 이후 생존한 옛 리유니온 간부 나인이 결성한 새로운 감염자 무장 단체. 로도스 아일랜드 본함을 기습해 탈룰라를 구출하며 다시 역사의 전면에 등장한다.'
     },
     {
       term: '오리지늄 독가스 소이탄',
       type: 'incident',
       typeLabel: '대량살상무기',
-      description: '해밀턴 대령이 살포를 명령한 금지된 기화성 오리지늄 분진 화학탄. 흡입 시 폐포에 급성 오리지늄 결정을 증식시켜 피아를 막론하고 끔찍한 고통 속에 생명을 앗아가는 더티 밤.'
+      description: '해밀턴 대령이 살포를 명령한 금지된 기화성 오리지늄 분진 화학탄. 흡입 시 폐포에 급성 오리지늄 결정을 증식시켜 피아를 막론하고 끔찍한 고통 속에 생명을 앗아가는 무기.'
     }
   ]
 };
